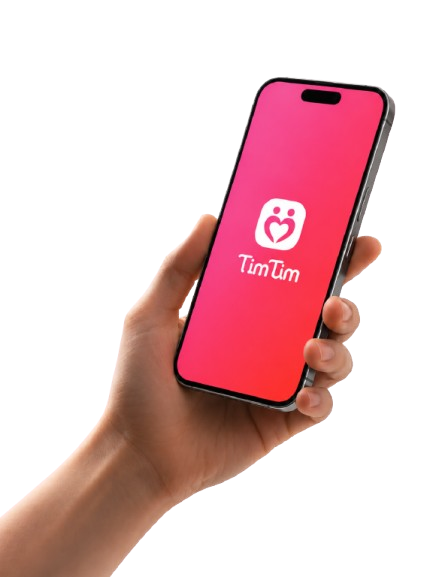
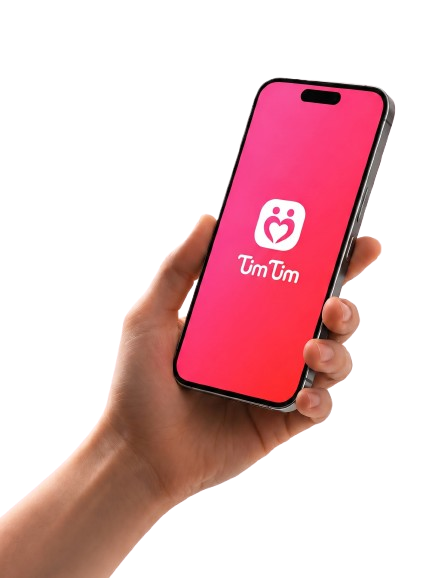
Update hero headline and about visual

diff --git a/index.html b/index.html
@@ -32,7 +32,6 @@
           <a href="#features">Tính năng</a>
           <a href="#how-it-works">Cách hoạt động</a>
           <a href="#safety">An toàn</a>
-          <a href="#download">Tải ứng dụng</a>
           <a class="nav-cta" href="#download">Tải TimTim</a>
         </div>
       </nav>
@@ -45,9 +44,8 @@
           <div class="hero-copy-block">
             <p class="section-eyebrow">Ứng dụng hẹn hò tử tế tại Việt Nam</p>
             <h1 class="hero-headline">
-              <span>Gặp gỡ những người</span>
-              <span>chân thành cùng</span>
-              <span>TimTim</span>
+              <span>Gặp gỡ chân thành</span>
+              <span>cùng TimTim</span>
             </h1>
             <p class="hero-copy">
               Tải TimTim để khám phá những người phù hợp quanh bạn, bắt đầu trò chuyện an toàn